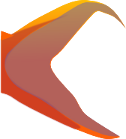
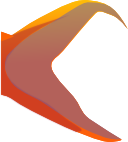
Changes: redrawn redfish board

diff --git a/qml/KidPuzzleSymbian/Bit.qml b/qml/KidPuzzleSymbian/Bit.qml
@@ -46,7 +46,7 @@ Image {
             if (free) {
                 aBit.width = aBit.sourceSize.width
                 aBit.height = aBit.sourceSize.height
-                if (!isMuted) takeBit.play(); else console.log("takeBit.play muted")
+                if (!isMuted) takeBit.play(); //else console.log("takeBit.play muted")
                 aBit.z = aBit.z + 100
             }
         }
@@ -56,17 +56,17 @@ Image {
                 if (closeEnough(aBit.x, aBit.y, aBit.boardX, aBit.boardY)) {
                     free = false
                     blinkBit.running = true
-                    if (!isMuted) placeBit.play(); else console.log("placeBit.play muted")
+                    if (!isMuted) placeBit.play(); //else console.log("placeBit.play muted")
                     UI.bitDone()
                     aBit.x = boardX
                     aBit.y = boardY
                     drag.target = undefined
                     if (UI.finished()) {
-                        if (!isMuted) applause.play(); else console.log("applause.play muted")
+                        if (!isMuted) applause.play(); //else console.log("applause.play muted")
                         gameover = true
                     }
                 } else {
-                    if (!isMuted) returnBit.play(); else console.log("returnBit.play muted")
+                    if (!isMuted) returnBit.play(); //else console.log("returnBit.play muted")
                     aBit.width = dockW
                     aBit.height = dockH
                     aBit.x = dockX

diff --git a/qml/KidPuzzleSymbian/BoardRedfish.qml b/qml/KidPuzzleSymbian/BoardRedfish.qml
@@ -6,22 +6,22 @@ Board {
 
     Bit {
         source: "redfish_mid.png"
-        dockX: UI.leftMargin + 10; dockY:5; boardX: UI.leftMargin + 230; boardY: 95; dockW: 65; dockH: 65
+        dockX: UI.leftMargin + 10; dockY:5; boardX: UI.leftMargin + 252; boardY: UI.screenHeight - 265; dockW: 65; dockH: 65
     }
     Bit {
         source: "redfish_tail.png"
-        dockX: UI.leftMargin + 10; dockY: 80; boardX: UI.leftMargin + 453; boardY: 106; dockW: 65; dockH: 65
+        dockX: UI.leftMargin + 10; dockY: 80; boardX: UI.leftMargin + 474; boardY: UI.screenHeight - 255; dockW: 65; dockH: 65
     }
     Bit {
         source: "redfish_head.png"
-        dockX: UI.leftMargin + 10; dockY: 155; boardX: UI.leftMargin + 128; boardY: 105; dockW: 65; dockH: 65
+        dockX: UI.leftMargin + 10; dockY: 155; boardX: UI.leftMargin + 145; boardY: UI.screenHeight - 255; dockW: 65; dockH: 65
     }
     Bit {
         source: "redfish_tailsection.png"
-        dockX: UI.leftMargin + 10; dockY: 230; boardX: UI.leftMargin + 339; boardY: 96; dockW: 65; dockH: 65
+        dockX: UI.leftMargin + 10; dockY: 230; boardX: UI.leftMargin + 362; boardY: UI.screenHeight - 265; dockW: 65; dockH: 65
     }
     Bit {
         source: "redfish_fin.png"
-        dockX: UI.leftMargin + 2; dockY: 305; boardX: UI.leftMargin + 322; boardY: 197; dockW: 100; dockH: 40
+        dockX: UI.leftMargin + 2; dockY: 305; boardX: UI.leftMargin + 346; boardY: UI.screenHeight - 161; dockW: 100; dockH: 40
     }
 }

diff --git a/qml/KidPuzzleSymbian/Baloon.qml b/qml/KidPuzzleSymbian/Baloon.qml
@@ -15,7 +15,7 @@ Image {
         onPressed: {
             baloon.visible = false
             timer.running = false
-            if (!isMuted) baloonPop.play(); else console.log("baloonPop.play muted")
+            if (!isMuted) baloonPop.play(); //else console.log("baloonPop.play muted")
         }
     }
     Timer {
